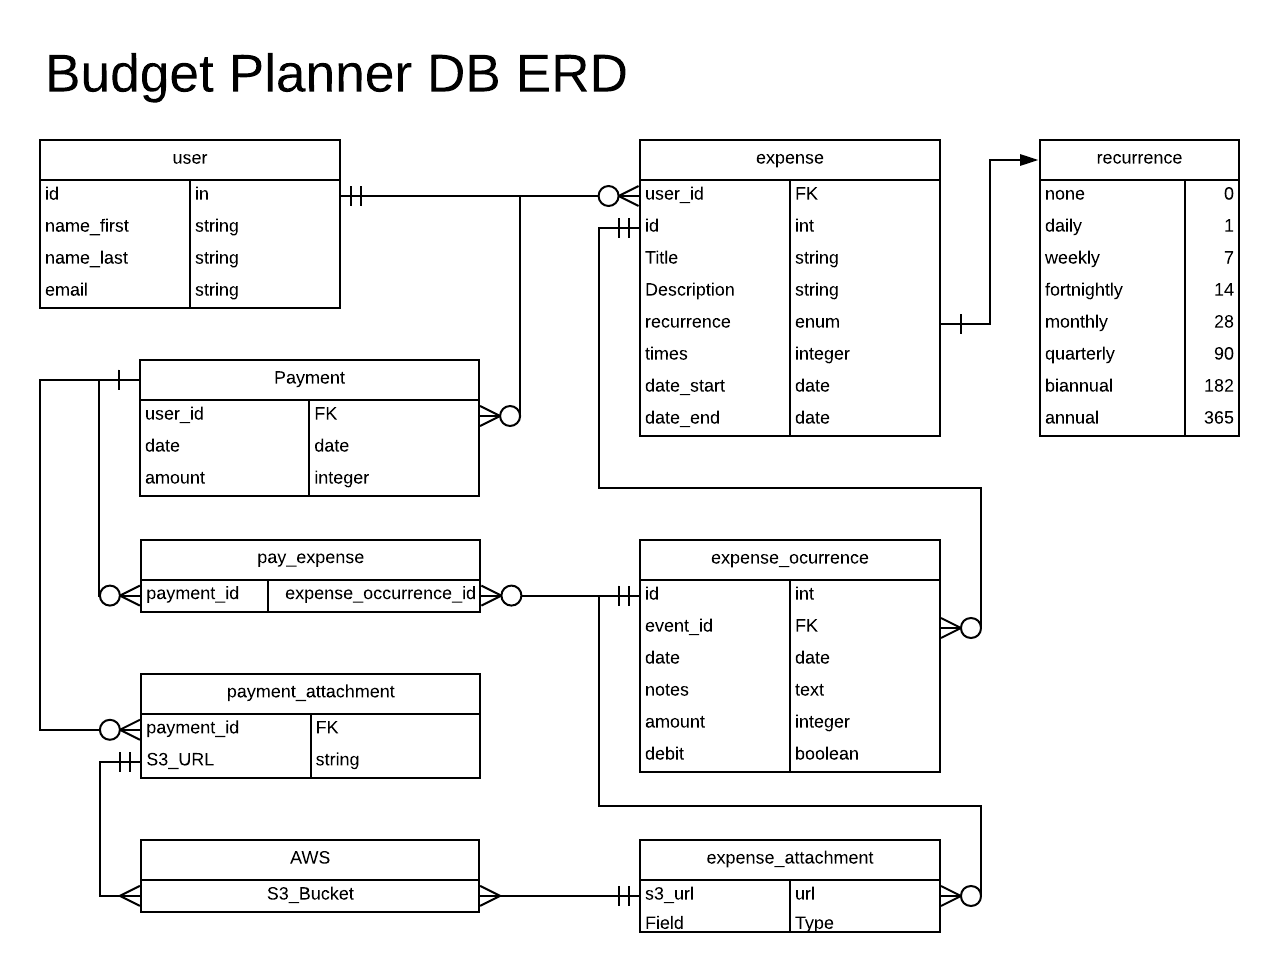
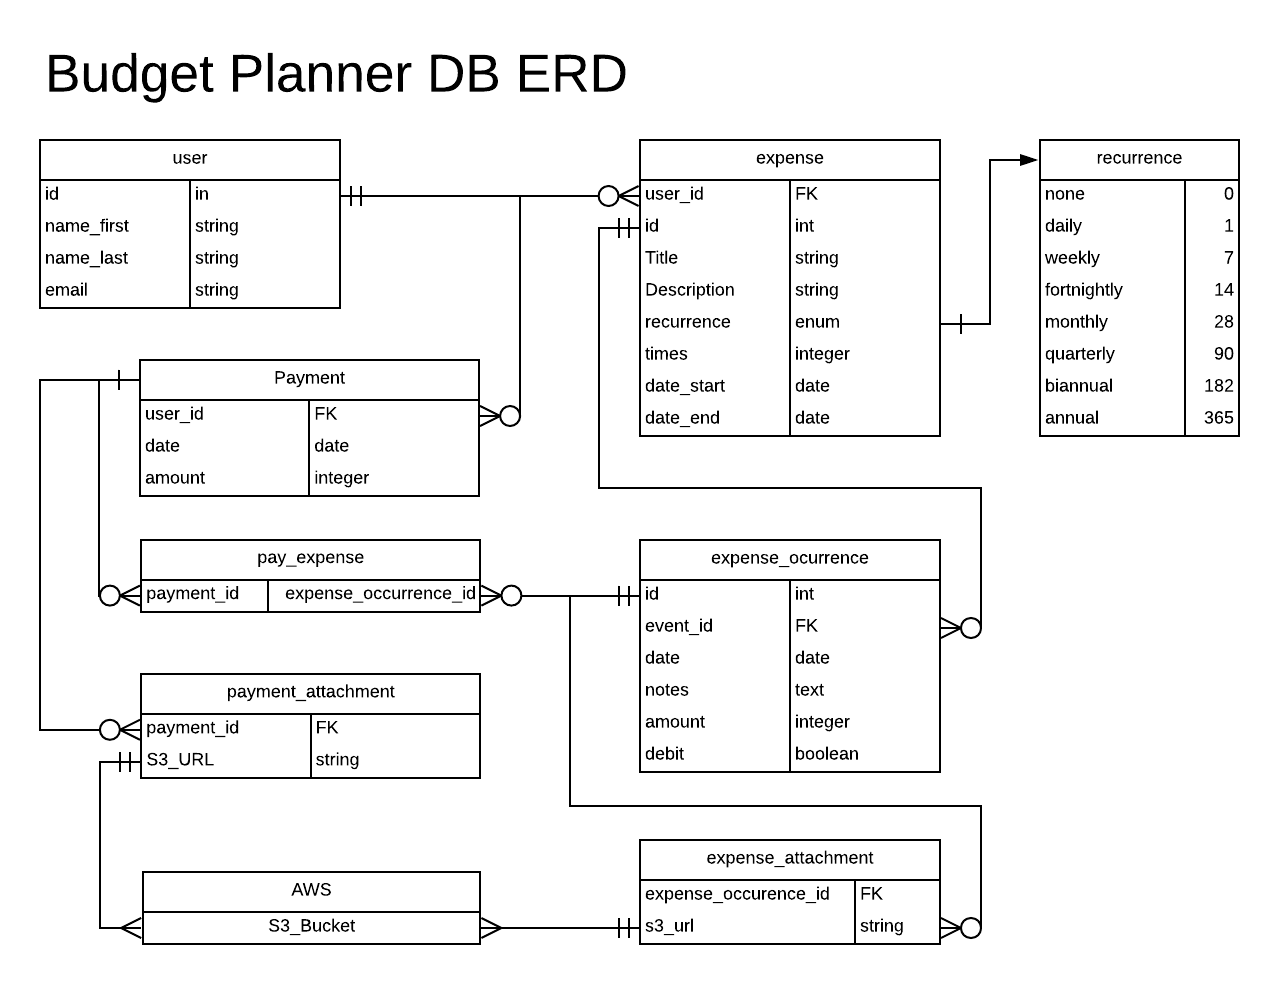
Added payment models, migrations and routes

diff --git a/wallet/db/schema.rb b/wallet/db/schema.rb
@@ -9,8 +9,8 @@
 # you'll amass, the slower it'll run and the greater likelihood for issues).
 #
 # It's strongly recommended that you check this file into your version control system.
-ActiveRecord::Schema.define(version: 2020_05_06_202005) do
 
+ActiveRecord::Schema.define(version: 2020_05_07_061931) do
 
   # These are extensions that must be enabled in order to support this database
   enable_extension "plpgsql"
@@ -39,6 +39,24 @@ ActiveRecord::Schema.define(version: 2020_05_06_202005) do
     t.index ["user_id"], name: "index_expenses_on_user_id"
   end
 
+  create_table "pay_expenses", force: :cascade do |t|
+    t.bigint "payment_id"
+    t.bigint "expense_occurence_id"
+    t.datetime "created_at", null: false
+    t.datetime "updated_at", null: false
+    t.index ["expense_occurence_id"], name: "index_pay_expenses_on_expense_occurence_id"
+    t.index ["payment_id"], name: "index_pay_expenses_on_payment_id"
+  end
+
+  create_table "payments", force: :cascade do |t|
+    t.bigint "user_id"
+    t.date "date"
+    t.integer "amount"
+    t.datetime "created_at", null: false
+    t.datetime "updated_at", null: false
+    t.index ["user_id"], name: "index_payments_on_user_id"
+  end
+
   create_table "users", force: :cascade do |t|
     t.string "email", default: "", null: false
     t.string "encrypted_password", default: "", null: false
@@ -55,4 +73,7 @@ ActiveRecord::Schema.define(version: 2020_05_06_202005) do
 
   add_foreign_key "expense_occurences", "expenses"
   add_foreign_key "expenses", "users"
+  add_foreign_key "pay_expenses", "expense_occurences"
+  add_foreign_key "pay_expenses", "payments"
+  add_foreign_key "payments", "users"
 end

diff --git a/wallet/app/models/user.rb b/wallet/app/models/user.rb
@@ -7,6 +7,8 @@ class User < ApplicationRecord
 
   validates :firstname, presence: true, length: {maximum: 50}
   validates :lastname, presence: true, length: {maximum: 50}
-  has_many :expenses 
+  
+  has_many :expenses, dependent: :destroy
+  has_many :payments, dependent: :destroy
 
 end

diff --git a/wallet/app/models/expense.rb b/wallet/app/models/expense.rb
@@ -1,5 +1,5 @@
 class Expense < ApplicationRecord
     belongs_to :user
-    has_many :expense_occurences
+    has_many :expense_occurences, dependent: :destroy
     enum recur: {once: 0, daily: 1, weekly: 7, fortnightly: 14, monthly: 28, quarterly: 90, biannual: 182, annual: 365} 
 end

diff --git a/wallet/db/migrate/20200507061931_create_pay_expenses.rb b/wallet/db/migrate/20200507061931_create_pay_expenses.rb
@@ -1,0 +1,10 @@
+class CreatePayExpenses < ActiveRecord::Migration[5.2]
+  def change
+    create_table :pay_expenses do |t|
+      t.references :payment, foreign_key: true
+      t.references :expense_occurence, foreign_key: true
+
+      t.timestamps
+    end
+  end
+end

diff --git a/wallet/db/migrate/20200507061834_create_payments.rb b/wallet/db/migrate/20200507061834_create_payments.rb
@@ -1,0 +1,11 @@
+class CreatePayments < ActiveRecord::Migration[5.2]
+  def change
+    create_table :payments do |t|
+      t.references :user, foreign_key: true
+      t.date :date
+      t.integer :amount
+
+      t.timestamps
+    end
+  end
+end

diff --git a/wallet/app/models/expense_occurence.rb b/wallet/app/models/expense_occurence.rb
@@ -1,3 +1,5 @@
 class ExpenseOccurence < ApplicationRecord
   belongs_to :expense
+  has_many :pay_expenses, dependent: :destroy
+  has_many :payments, :through :pay_expenses
 end

diff --git a/wallet/app/models/payment.rb b/wallet/app/models/payment.rb
@@ -1,0 +1,5 @@
+class Payment < ApplicationRecord
+  belongs_to :user
+  has_many :pay_expenses, dependent: :destroy
+  has_many :expense_occurrences, :through :pay_expenses
+end

diff --git a/wallet/config/routes.rb b/wallet/config/routes.rb
@@ -7,4 +7,6 @@ Rails.application.routes.draw do
   resources :expenses do
      resources :expense_occurrence
   end
+
+  resources :payments, :pay_expenses
 end

diff --git a/wallet/test/models/pay_expense_test.rb b/wallet/test/models/pay_expense_test.rb
@@ -1,0 +1,7 @@
+require 'test_helper'
+
+class PayExpenseTest < ActiveSupport::TestCase
+  # test "the truth" do
+  #   assert true
+  # end
+end

diff --git a/wallet/test/models/payment_test.rb b/wallet/test/models/payment_test.rb
@@ -1,0 +1,7 @@
+require 'test_helper'
+
+class PaymentTest < ActiveSupport::TestCase
+  # test "the truth" do
+  #   assert true
+  # end
+end

diff --git a/wallet/app/models/pay_expense.rb b/wallet/app/models/pay_expense.rb
@@ -1,0 +1,4 @@
+class PayExpense < ApplicationRecord
+  belongs_to :payment
+  belongs_to :expense_occurence
+end
